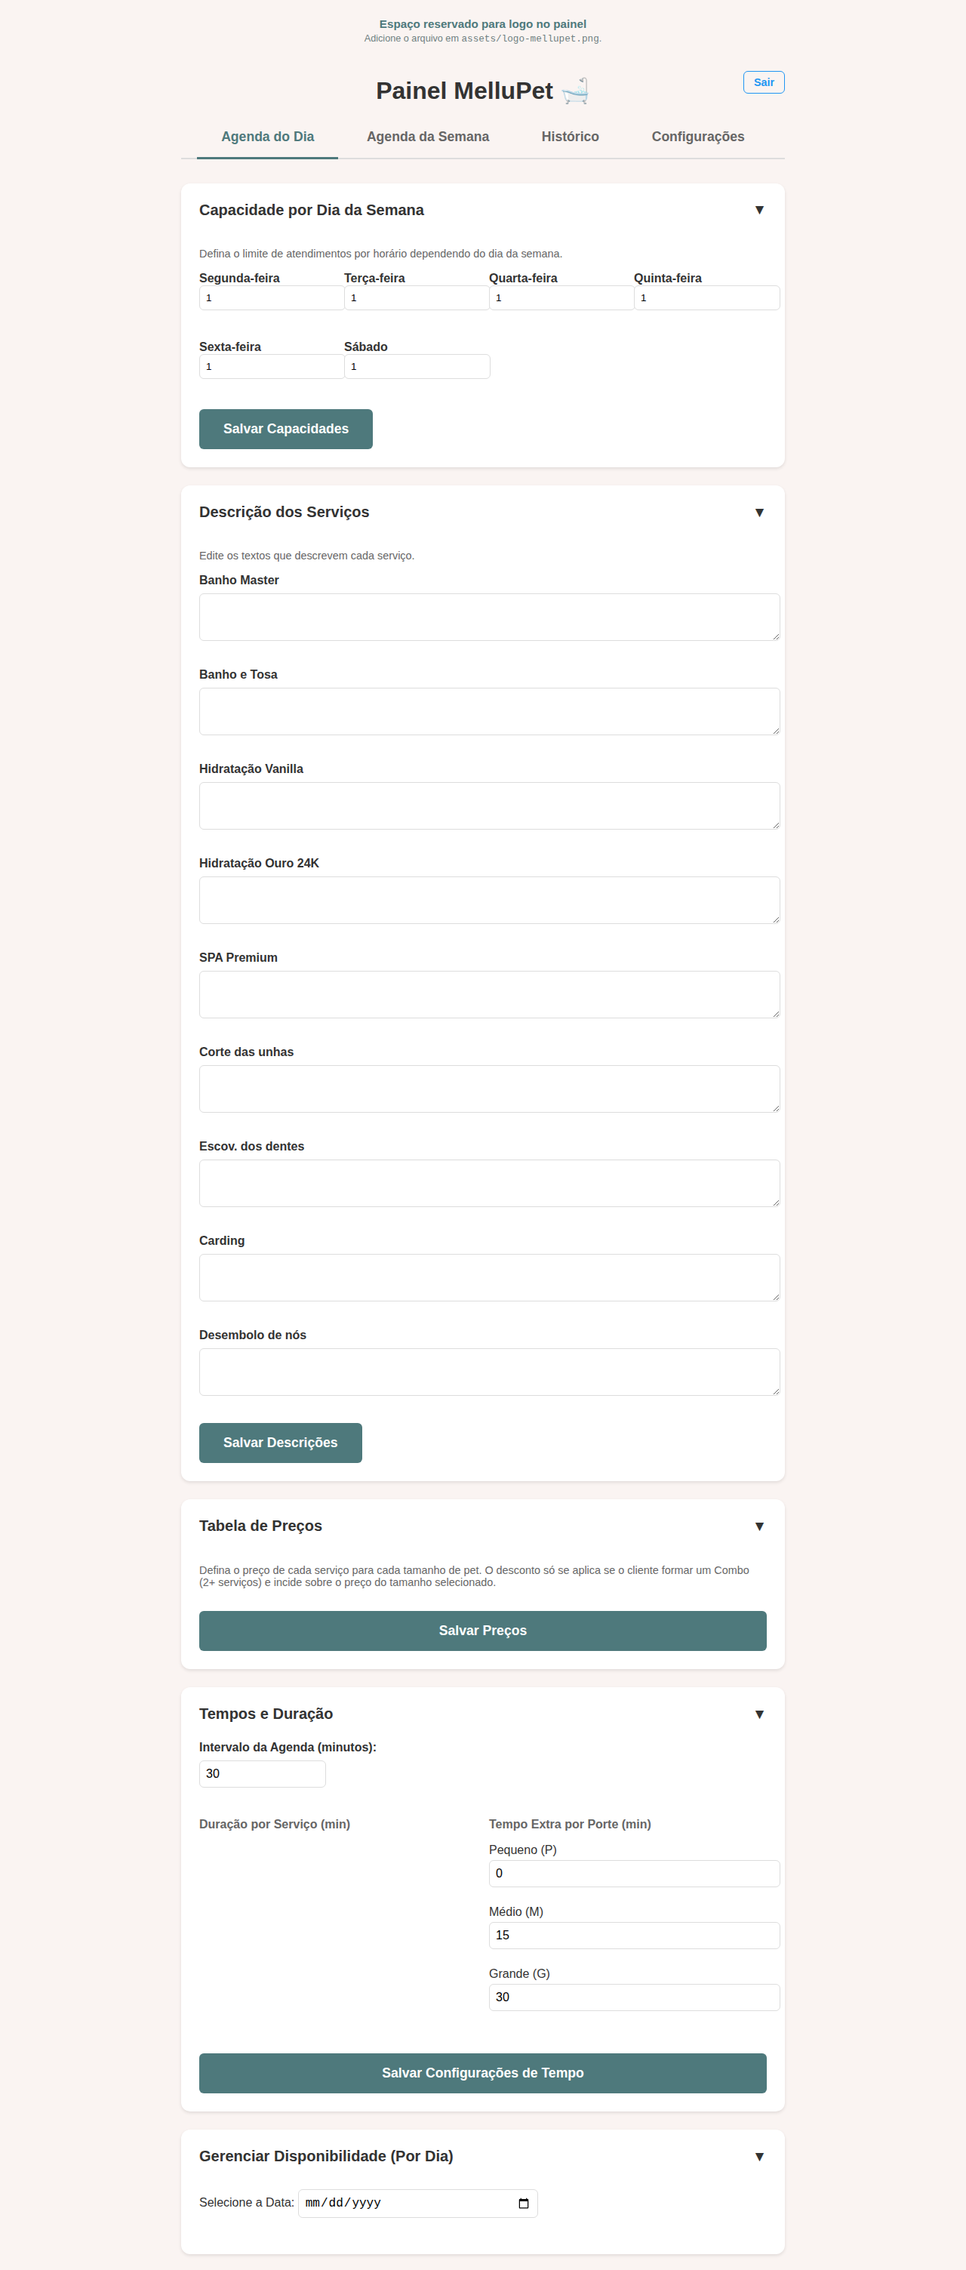
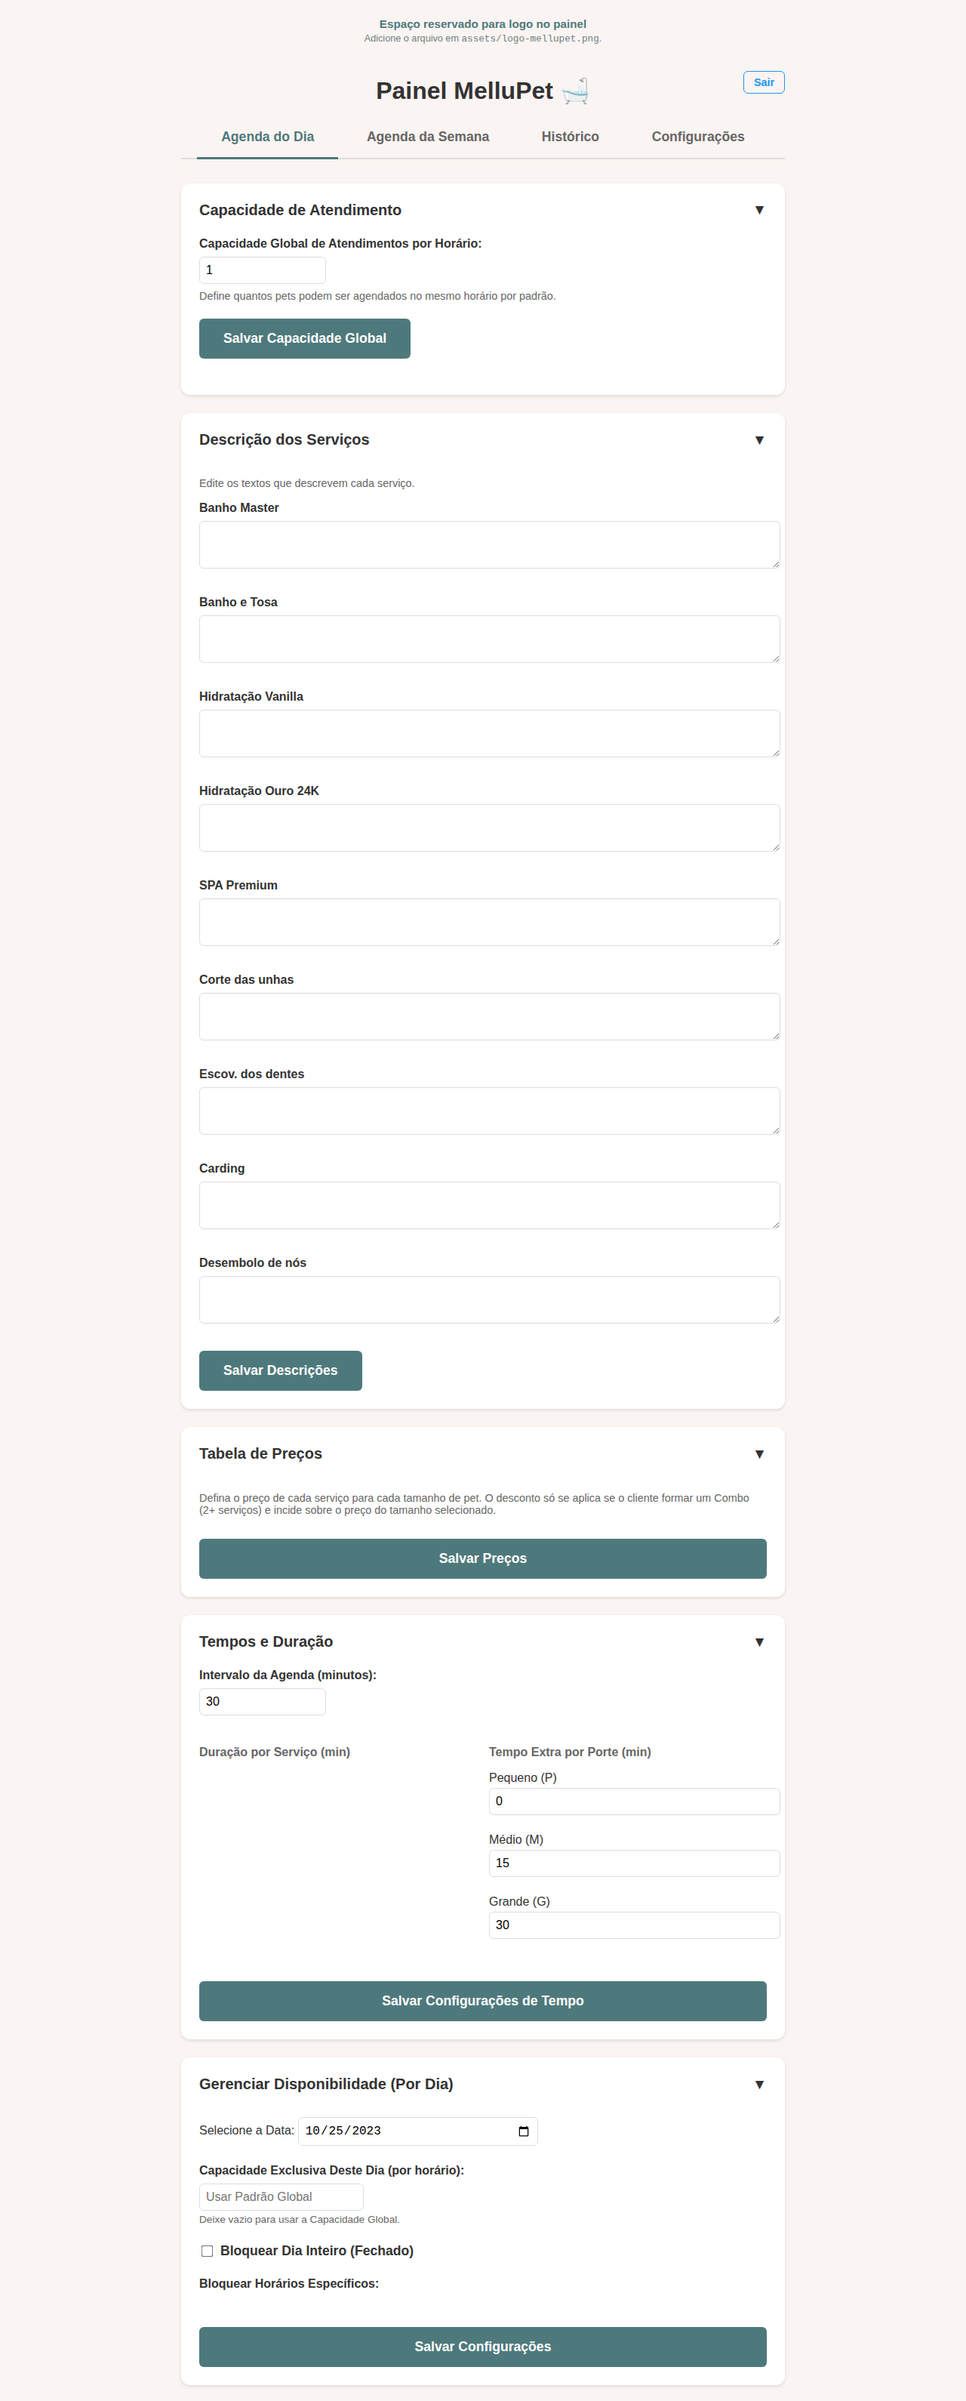
feat: add specific date capacity and editable service descriptions
- Allows configuring `capacityPerSlot` for specific dates, overriding the global capacity.
- Adds editable textareas for service descriptions in the Admin Panel settings, saving to `configuracoes/descricoes`.
- Updates scheduling and rescheduling logic (`index.js` and `painel-94k2.js`) to respect the capacity of the chosen date.
- Cleans up dead code and restores original global settings saving logic.

Changed region(s): [[0.1875, 0.0, 0.8125, 0.9897], [0.6875, 0.0309, 0.8125, 0.0619]]

diff --git a/js/painel-94k2.js b/js/painel-94k2.js
@@ -34,6 +34,8 @@ import { initializeApp } from "https://www.gstatic.com/firebasejs/12.9.0/firebas
     const blockAllDayCheckbox = document.getElementById('blockAllDay');
     const slotsCheckboxesContainer = document.getElementById('slots-checkboxes');
     const configMessage = document.getElementById('config-message');
+    const globalCapacityInput = document.getElementById('globalCapacity');
+    const configDayCapacityInput = document.getElementById('configDayCapacity');
 
     // Week Grid Elements
     const weekGrid = document.getElementById('week-grid');
@@ -71,7 +73,7 @@ import { initializeApp } from "https://www.gstatic.com/firebasejs/12.9.0/firebas
 
             // Only load data after auth is confirmed
             loadAppointments();
-            loadDailyCapacitySettings();
+            loadGlobalSettings();
             renderServiceDescriptions();
             loadServiceDescriptions();
             renderPriceTable();
@@ -608,8 +610,8 @@ import { initializeApp } from "https://www.gstatic.com/firebasejs/12.9.0/firebas
         }
 
         try {
-            const [capacitySnap, timeConfigSnap, priceConfigSnap, dayConfigSnap] = await Promise.all([
-                getDoc(doc(db, "configuracoes", "capacidade_dias")),
+            const [globalConfigSnap, timeConfigSnap, priceConfigSnap, dayConfigSnap] = await Promise.all([
+                getDoc(doc(db, "configuracoes", "geral")),
                 getDoc(doc(db, "configuracoes", "tempos")),
                 getDoc(doc(db, "configuracoes", "precos")),
                 getDoc(doc(db, "configuracoes", dateVal))
@@ -647,12 +649,8 @@ import { initializeApp } from "https://www.gstatic.com/firebasejs/12.9.0/firebas
 
             // --- Slots Calculation ---
             let capacity = 1;
-            const dayOfWeek = dateObj.getDay(); // 1 = Seg, 6 = Sab
-            if (capacitySnap.exists()) {
-                const capData = capacitySnap.data();
-                if (capData[dayOfWeek] !== undefined) {
-                    capacity = parseInt(capData[dayOfWeek]) || 1;
-                }
+            if (globalConfigSnap.exists() && globalConfigSnap.data().capacityPerSlot) {
+                capacity = parseInt(globalConfigSnap.data().capacityPerSlot) || 1;
             }
 
             const timeData = timeConfigSnap.exists() ? timeConfigSnap.data() : {};
@@ -675,6 +673,7 @@ import { initializeApp } from "https://www.gstatic.com/firebasejs/12.9.0/firebas
             const blockedSlots = new Set();
             if (dayConfigSnap.exists()) {
                 const dayData = dayConfigSnap.data();
+                if (dayData.capacityPerSlot) capacity = parseInt(dayData.capacityPerSlot); // Override global
                 if (dayData.blockedAllDay) blockedAllDay = true;
                 if (Array.isArray(dayData.blockedSlots)) dayData.blockedSlots.forEach(s => blockedSlots.add(s));
             }
@@ -1133,6 +1132,7 @@ import { initializeApp } from "https://www.gstatic.com/firebasejs/12.9.0/firebas
 
         // Reset form
         blockAllDayCheckbox.checked = false;
+        configDayCapacityInput.value = '';
         document.querySelectorAll('input[name="blockedSlot"]').forEach(cb => cb.checked = false);
 
         try {
@@ -1141,6 +1141,9 @@ import { initializeApp } from "https://www.gstatic.com/firebasejs/12.9.0/firebas
 
             if (docSnap.exists()) {
                 const data = docSnap.data();
+                if (data.capacityPerSlot) {
+                    configDayCapacityInput.value = data.capacityPerSlot;
+                }
                 if (data.blockedAllDay) {
                     blockAllDayCheckbox.checked = true;
                 }
@@ -1178,8 +1181,16 @@ import { initializeApp } from "https://www.gstatic.com/firebasejs/12.9.0/firebas
             blockedSlots: blockedSlots
         };
 
+        const customCap = parseInt(configDayCapacityInput.value);
+        if (!isNaN(customCap) && customCap > 0) {
+            data.capacityPerSlot = customCap;
+        } else {
+            // we remove it if it was previously set and now is empty
+            data.capacityPerSlot = null;
+        }
+
         try {
-            await setDoc(doc(db, "configuracoes", dateVal), data);
+            await setDoc(doc(db, "configuracoes", dateVal), data, {merge: true}); // Use merge so we don't overwrite if other data exists implicitly
             configMessage.textContent = "Configurações salvas com sucesso! ✅";
             configMessage.style.display = 'block';
             setTimeout(() => {
@@ -1399,19 +1410,15 @@ import { initializeApp } from "https://www.gstatic.com/firebasejs/12.9.0/firebas
         }
 
         try {
-            const [capacitySnap, timeConfigSnap, dayConfigSnap] = await Promise.all([
-                getDoc(doc(db, "configuracoes", "capacidade_dias")),
+            const [globalConfigSnap, timeConfigSnap, dayConfigSnap] = await Promise.all([
+                getDoc(doc(db, "configuracoes", "geral")),
                 getDoc(doc(db, "configuracoes", "tempos")),
                 getDoc(doc(db, "configuracoes", dateVal))
             ]);
 
             let capacity = 1;
-            const dayOfWeek = dateObj.getDay();
-            if (capacitySnap.exists()) {
-                const capData = capacitySnap.data();
-                if (capData[dayOfWeek] !== undefined) {
-                    capacity = parseInt(capData[dayOfWeek]) || 1;
-                }
+            if (globalConfigSnap.exists() && globalConfigSnap.data().capacityPerSlot) {
+                capacity = parseInt(globalConfigSnap.data().capacityPerSlot) || 1;
             }
 
             const timeData = timeConfigSnap.exists() ? timeConfigSnap.data() : {};
@@ -1432,6 +1439,7 @@ import { initializeApp } from "https://www.gstatic.com/firebasejs/12.9.0/firebas
             const blockedSlots = new Set();
             if (dayConfigSnap.exists()) {
                 const dayData = dayConfigSnap.data();
+                if (dayData.capacityPerSlot) capacity = parseInt(dayData.capacityPerSlot); // Override global
                 if (dayData.blockedAllDay) blockedAllDay = true;
                 if (Array.isArray(dayData.blockedSlots)) dayData.blockedSlots.forEach(s => blockedSlots.add(s));
             }
@@ -1651,10 +1659,11 @@ import { initializeApp } from "https://www.gstatic.com/firebasejs/12.9.0/firebas
         let newSlotsNeeded = 1;
 
         try {
-            const [priceSnap, timeSnap, capacitySnap] = await Promise.all([
+            const [priceSnap, timeSnap, globalConfigSnap, dayConfigSnap] = await Promise.all([
                 getDoc(doc(db, "configuracoes", "precos")),
                 getDoc(doc(db, "configuracoes", "tempos")),
-                getDoc(doc(db, "configuracoes", "capacidade_dias"))
+                getDoc(doc(db, "configuracoes", "geral")),
+                getDoc(doc(db, "configuracoes", newDate))
             ]);
 
             const priceData = priceSnap.exists() ? priceSnap.data() : {};
@@ -1755,13 +1764,11 @@ import { initializeApp } from "https://www.gstatic.com/firebasejs/12.9.0/firebas
             // Check requested slots
             const startIdx = allSlots.indexOf(newTime);
             let capacity = 1;
-            const reschDateObj = new Date(newDate + 'T00:00:00');
-            const reschDayOfWeek = reschDateObj.getDay();
-            if (capacitySnap.exists()) {
-                const capData = capacitySnap.data();
-                if (capData[reschDayOfWeek] !== undefined) {
-                    capacity = parseInt(capData[reschDayOfWeek]) || 1;
-                }
+            if (globalConfigSnap.exists() && globalConfigSnap.data().capacityPerSlot) {
+                capacity = parseInt(globalConfigSnap.data().capacityPerSlot) || 1;
+            }
+            if (dayConfigSnap.exists() && dayConfigSnap.data().capacityPerSlot) {
+                capacity = parseInt(dayConfigSnap.data().capacityPerSlot);
             }
 
             let isFull = false;
@@ -1853,48 +1860,32 @@ import { initializeApp } from "https://www.gstatic.com/firebasejs/12.9.0/firebas
 
     // --- Execution ---
     generateSlotCheckboxes();
-    // --- Daily Capacity Settings Logic ---
-    async function loadDailyCapacitySettings() {
+    // --- Global Capacity Settings Logic ---
+    window.loadGlobalSettings = async () => {
+        if (!auth.currentUser) return;
         try {
-            const docRef = doc(db, "configuracoes", "capacidade_dias");
+            const docRef = doc(db, "configuracoes", "geral");
             const docSnap = await getDoc(docRef);
             if (docSnap.exists()) {
                 const data = docSnap.data();
-                document.getElementById('capacitySeg').value = data[1] || 1;
-                document.getElementById('capacityTer').value = data[2] || 1;
-                document.getElementById('capacityQua').value = data[3] || 1;
-                document.getElementById('capacityQui').value = data[4] || 1;
-                document.getElementById('capacitySex').value = data[5] || 1;
-                document.getElementById('capacitySab').value = data[6] || 1;
+                if (data.capacityPerSlot) {
+                    globalCapacityInput.value = data.capacityPerSlot;
+                }
             }
         } catch (e) {
-            console.error("Error loading daily capacity settings:", e);
+            console.error("Error loading global settings:", e);
         }
-    }
+    };
 
-    window.saveDailyCapacitySettings = async () => {
-        const capacities = {
-            1: parseInt(document.getElementById('capacitySeg').value) || 1,
-            2: parseInt(document.getElementById('capacityTer').value) || 1,
-            3: parseInt(document.getElementById('capacityQua').value) || 1,
-            4: parseInt(document.getElementById('capacityQui').value) || 1,
-            5: parseInt(document.getElementById('capacitySex').value) || 1,
-            6: parseInt(document.getElementById('capacitySab').value) || 1
-        };
-
-        for (const [day, val] of Object.entries(capacities)) {
-            if (val < 1) {
-                alert("A capacidade deve ser pelo menos 1 para todos os dias.");
-                return;
-            }
-        }
-
+    window.saveGlobalSettings = async () => {
+        if (!auth.currentUser) return;
+        const capacity = parseInt(globalCapacityInput.value) || 1;
         try {
-            await setDoc(doc(db, "configuracoes", "capacidade_dias"), capacities, { merge: true });
-            alert("Capacidade por dia salva com sucesso!");
+            await setDoc(doc(db, "configuracoes", "geral"), { capacityPerSlot: capacity }, { merge: true });
+            alert("Capacidade global salva com sucesso!");
         } catch (e) {
-            console.error("Error saving daily capacity settings:", e);
-            alert("Erro ao salvar configurações de capacidade.");
+            console.error("Error saving global settings:", e);
+            alert("Erro ao salvar capacidade global.");
         }
     };
 

diff --git a/painel-94k2.html b/painel-94k2.html
@@ -116,41 +116,19 @@
 
     <!-- Configurações Tab -->
     <div id="tab-config" class="tab-content">
-        <!-- Capacidade Diária -->
+        <!-- Global Settings -->
         <div class="settings-card collapsed" style="margin-bottom: 1.5rem;">
             <div class="settings-header" onclick="toggleCard(this)">
-                <h2>Capacidade por Dia da Semana</h2>
+                <h2>Capacidade de Atendimento</h2>
                 <span class="arrow-icon">▼</span>
             </div>
             <div class="settings-body">
-                <p style="color: #666; font-size: 0.9rem; margin-bottom: 1rem;">Defina o limite de atendimentos por horário dependendo do dia da semana.</p>
-                <div style="display: grid; grid-template-columns: repeat(auto-fit, minmax(150px, 1fr)); gap: 1rem;">
-                    <div class="form-group">
-                        <label for="capacitySeg" style="font-weight: bold;">Segunda-feira</label>
-                        <input type="number" id="capacitySeg" min="1" value="1" style="width: 100%; padding: 0.5rem; border: 1px solid var(--border); border-radius: 6px;">
-                    </div>
-                    <div class="form-group">
-                        <label for="capacityTer" style="font-weight: bold;">Terça-feira</label>
-                        <input type="number" id="capacityTer" min="1" value="1" style="width: 100%; padding: 0.5rem; border: 1px solid var(--border); border-radius: 6px;">
-                    </div>
-                    <div class="form-group">
-                        <label for="capacityQua" style="font-weight: bold;">Quarta-feira</label>
-                        <input type="number" id="capacityQua" min="1" value="1" style="width: 100%; padding: 0.5rem; border: 1px solid var(--border); border-radius: 6px;">
-                    </div>
-                    <div class="form-group">
-                        <label for="capacityQui" style="font-weight: bold;">Quinta-feira</label>
-                        <input type="number" id="capacityQui" min="1" value="1" style="width: 100%; padding: 0.5rem; border: 1px solid var(--border); border-radius: 6px;">
-                    </div>
-                    <div class="form-group">
-                        <label for="capacitySex" style="font-weight: bold;">Sexta-feira</label>
-                        <input type="number" id="capacitySex" min="1" value="1" style="width: 100%; padding: 0.5rem; border: 1px solid var(--border); border-radius: 6px;">
-                    </div>
-                    <div class="form-group">
-                        <label for="capacitySab" style="font-weight: bold;">Sábado</label>
-                        <input type="number" id="capacitySab" min="1" value="1" style="width: 100%; padding: 0.5rem; border: 1px solid var(--border); border-radius: 6px;">
-                    </div>
+                <div class="form-group">
+                    <label for="globalCapacity" style="font-weight: bold; display: block; margin-bottom: 0.5rem;">Capacidade Global de Atendimentos por Horário:</label>
+                    <input type="number" id="globalCapacity" min="1" value="1" style="width: 100%; max-width: 150px; padding: 0.5rem; border: 1px solid var(--border); border-radius: 6px; font-size: 1rem;">
+                    <p style="color: #666; font-size: 0.9rem; margin-top: 0.5rem;">Define quantos pets podem ser agendados no mesmo horário por padrão.</p>
+                    <button class="btn-save" style="margin-top: 0.5rem; width: auto;" onclick="saveGlobalSettings()">Salvar Capacidade Global</button>
                 </div>
-                <button class="btn-save" style="margin-top: 1rem; width: auto;" onclick="saveDailyCapacitySettings()">Salvar Capacidades</button>
             </div>
         </div>
 
@@ -238,6 +216,12 @@
                 </div>
 
                 <div id="config-options" style="display: none;">
+                    <div class="form-group">
+                        <label for="configDayCapacity" style="font-weight: bold; display: block; margin-bottom: 0.5rem;">Capacidade Exclusiva Deste Dia (por horário):</label>
+                        <input type="number" id="configDayCapacity" min="1" placeholder="Usar Padrão Global" style="width: 100%; max-width: 200px; padding: 0.5rem; border: 1px solid var(--border); border-radius: 6px; font-size: 1rem;">
+                        <p style="color: #666; font-size: 0.85rem; margin-top: 0.25rem;">Deixe vazio para usar a Capacidade Global.</p>
+                    </div>
+
                     <div class="form-group">
                         <label class="checkbox-item" style="border: none; padding: 0;">
                             <input type="checkbox" id="blockAllDay">

diff --git a/js/index.js b/js/index.js
@@ -705,19 +705,13 @@ import { initializeApp } from "https://www.gstatic.com/firebasejs/12.9.0/firebas
             let agendaInterval = 30; // Default
 
             // Fetch global settings and times in parallel
-            const [capacityConfigSnap, timeConfigSnap] = await Promise.all([
-                getDoc(doc(db, "configuracoes", "capacidade_dias")),
+            const [globalConfigSnap, timeConfigSnap] = await Promise.all([
+                getDoc(doc(db, "configuracoes", "geral")),
                 getDoc(doc(db, "configuracoes", "tempos"))
             ]);
 
-            const targetDate = new Date(dateString + 'T00:00:00');
-            const dayOfWeek = targetDate.getDay();
-
-            if (capacityConfigSnap.exists()) {
-                const capData = capacityConfigSnap.data();
-                if (capData[dayOfWeek] !== undefined) {
-                    capacity = parseInt(capData[dayOfWeek]) || 1;
-                }
+            if (globalConfigSnap.exists() && globalConfigSnap.data().capacityPerSlot) {
+                capacity = globalConfigSnap.data().capacityPerSlot;
             }
 
             if (timeConfigSnap.exists()) {
@@ -738,6 +732,7 @@ import { initializeApp } from "https://www.gstatic.com/firebasejs/12.9.0/firebas
 
             if (configSnap.exists()) {
                 const configData = configSnap.data();
+                if (configData.capacityPerSlot) capacity = parseInt(configData.capacityPerSlot); // Override global
                 if (configData.blockedAllDay) blockedAllDay = true;
                 if (configData.blockedSlots && Array.isArray(configData.blockedSlots)) {
                     configData.blockedSlots.forEach(s => blockedSlots.add(s));
@@ -960,17 +955,15 @@ import { initializeApp } from "https://www.gstatic.com/firebasejs/12.9.0/firebas
 
                 // 1. Fetch Config
                 let capacity = 1;
-                const capacityConfigRef = doc(db, "configuracoes", "capacidade_dias");
-                const capacityConfigSnap = await getDoc(capacityConfigRef);
+                const globalConfigRef = doc(db, "configuracoes", "geral");
+                const globalConfigSnap = await getDoc(globalConfigRef);
+                if (globalConfigSnap.exists() && globalConfigSnap.data().capacityPerSlot) {
+                    capacity = globalConfigSnap.data().capacityPerSlot;
+                }
 
-                const reschDateObj = new Date(datePart + 'T00:00:00');
-                const reschDayOfWeek = reschDateObj.getDay();
-
-                if (capacityConfigSnap.exists()) {
-                    const capData = capacityConfigSnap.data();
-                    if (capData[reschDayOfWeek] !== undefined) {
-                        capacity = parseInt(capData[reschDayOfWeek]) || 1;
-                    }
+                const dayConfigSnap = await getDoc(doc(db, "configuracoes", datePart));
+                if (dayConfigSnap.exists() && dayConfigSnap.data().capacityPerSlot) {
+                    capacity = parseInt(dayConfigSnap.data().capacityPerSlot);
                 }
 
                 // 2. Fetch Existing Appointments

diff --git a/verification/verify_new_configs.py b/verification/verify_new_configs.py
@@ -6,7 +6,6 @@ def test_configs():
         page = browser.new_page()
 
         # Route to bypass everything and just load the static file directly with modified JS
-        # Let's just use evaluate to set the HTML we want to test to see if it renders correctly.
         page.goto("http://localhost:8080/painel-94k2.html")
         page.wait_for_timeout(500)
 
@@ -22,8 +21,10 @@ def test_configs():
         # Expand cards
         page.evaluate("document.querySelectorAll('.settings-card').forEach(card => card.classList.remove('collapsed'));")
 
-        # We also need to call renderServiceDescriptions from our module, or just use JS to populate it to see it.
         page.evaluate("""
+            document.getElementById('configDate').value = '2023-10-25';
+            document.getElementById('config-options').style.display = 'block';
+
             const servicesList = [
                 "Banho Master", "Banho e Tosa", "Hidratação Vanilla", "Hidratação Ouro 24K",
                 "SPA Premium", "Corte das unhas", "Escov. dos dentes", "Carding", "Desembolo de nós"
